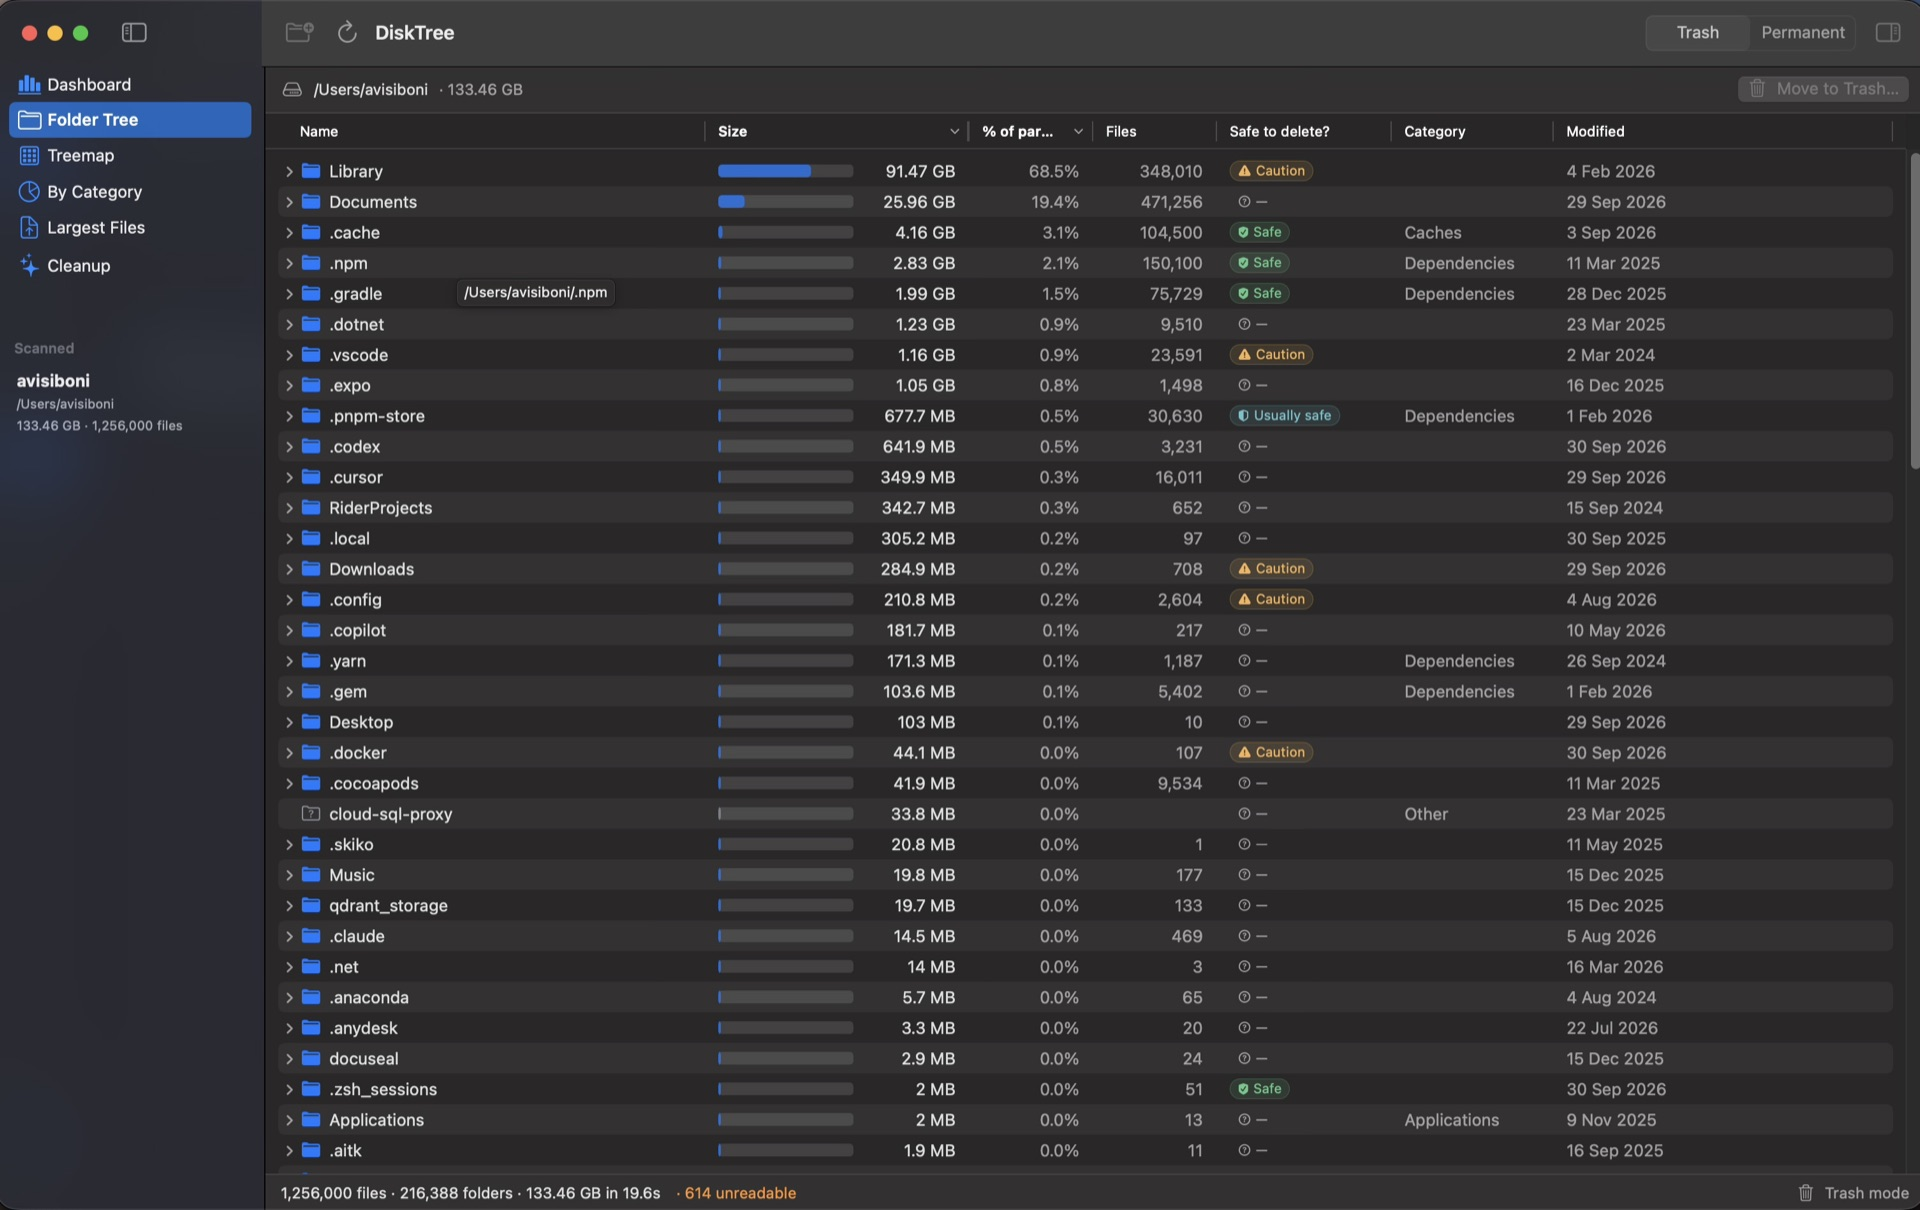
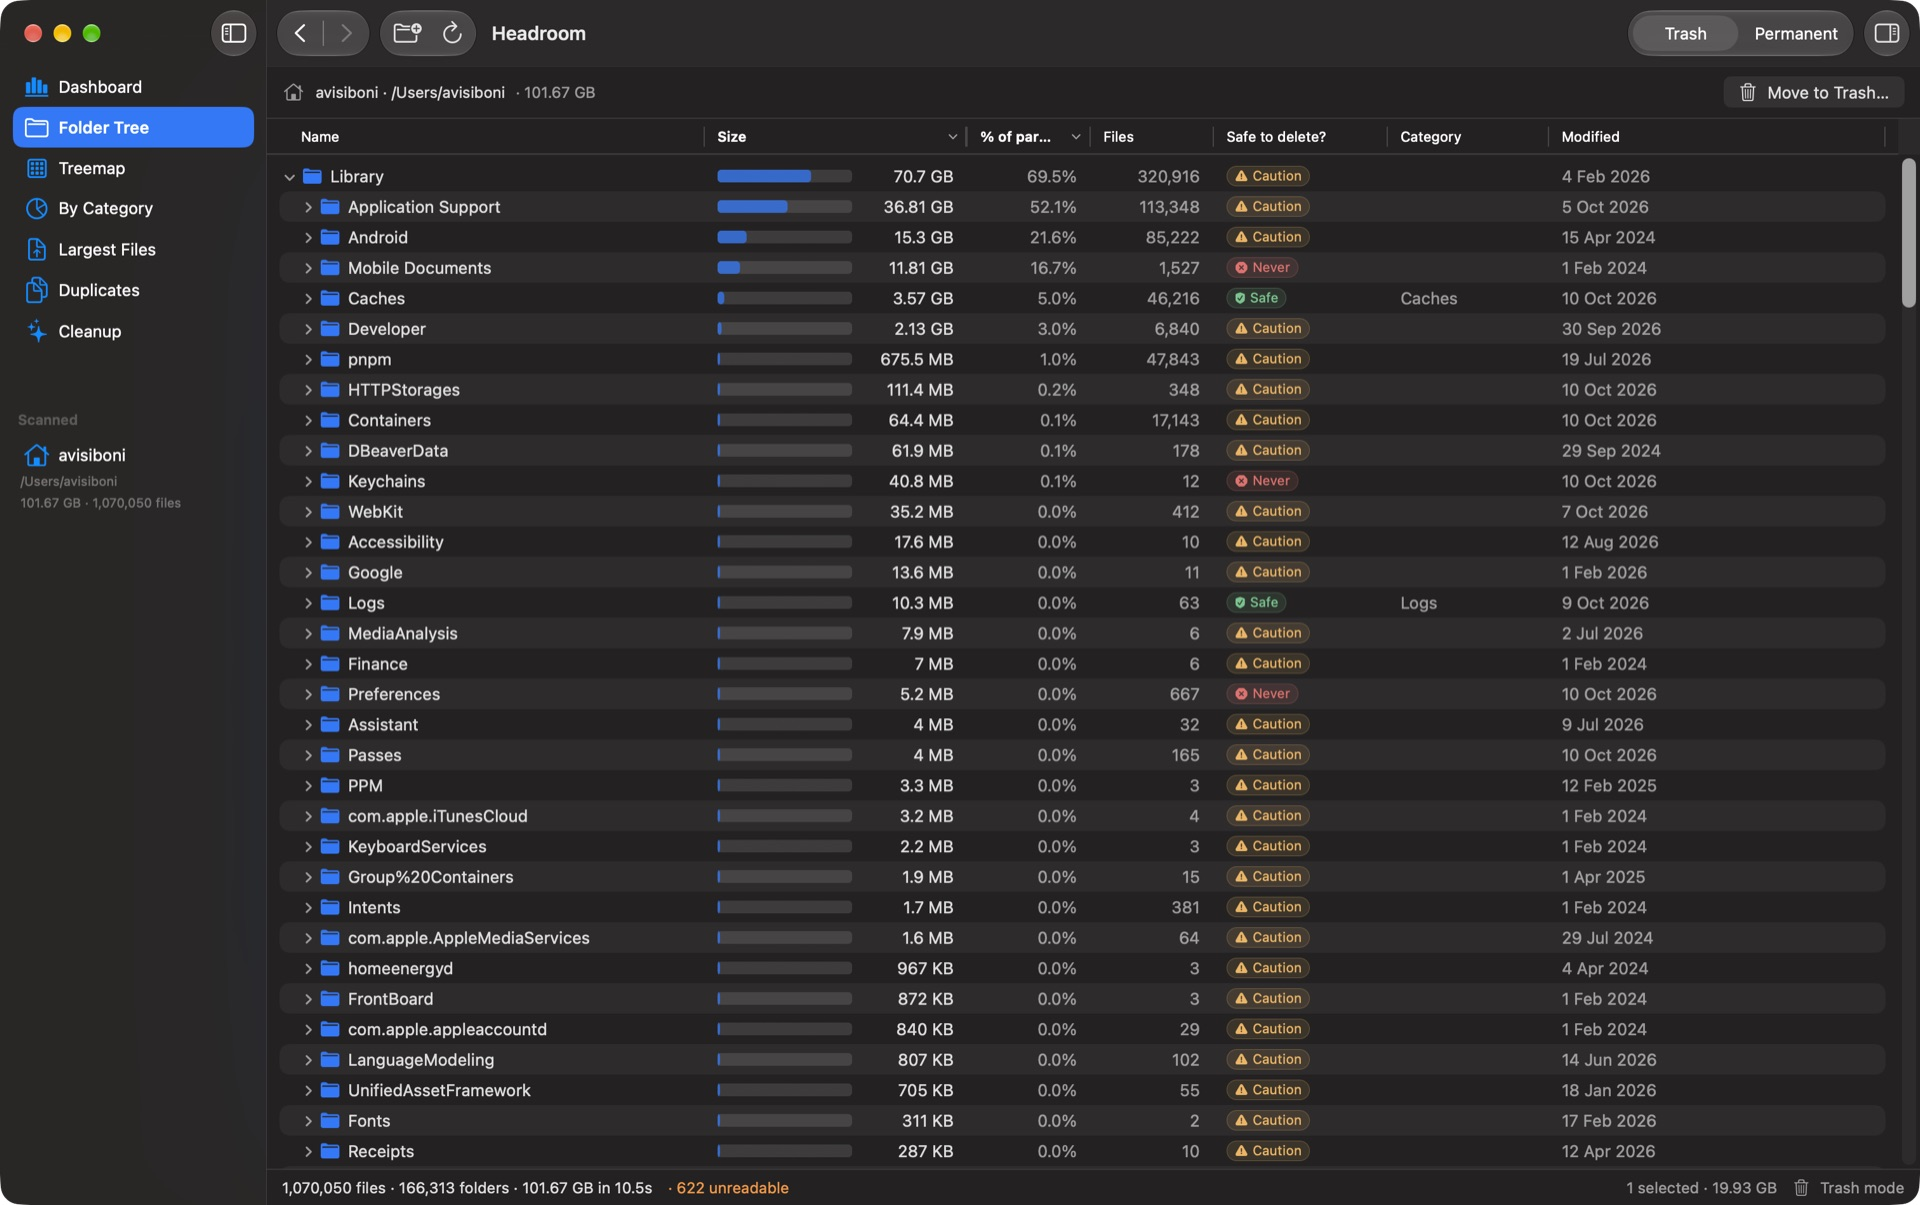
Retake screenshots on Headroom 1.0.5
The old shots still showed DiskTree in the title bar. New Dashboard,
Treemap, Folder Tree, Categories, Welcome and menu bar shots, plus the
first Duplicates and Cleanup shots. The README now leads with the
treemap and shows Cleanup and Duplicates; the site's Duplicates figure
appears now that its image exists, and the site test checks for it.

diff --git a/docs/index.html b/docs/index.html
@@ -745,7 +745,7 @@ footer{padding:24px 0;border-top:1px solid var(--line);font-size:14px;color:var(
         <div class="level reveal d3"><span class="dot never" aria-hidden="true"></span><h3>Never</h3><p>Keychains, Mail, Photos library, the system itself. Headroom will tell you so.</p></div>
       </div>
       <figure class="shot wide-shot reveal">
-        <img src="assets/folder-tree.webp" srcset="assets/folder-tree-800.webp 800w, assets/folder-tree.webp 1600w" sizes="(min-width: 1024px) 1080px, 92vw" width="1600" height="1009" loading="lazy" alt="Headroom folder tree with sizes, share of parent and a Safe to delete column">
+        <img src="assets/folder-tree.webp" srcset="assets/folder-tree-800.webp 800w, assets/folder-tree.webp 1600w" sizes="(min-width: 1024px) 1080px, 92vw" width="1600" height="1005" loading="lazy" alt="Headroom folder tree with sizes, share of parent and a Safe to delete column">
         <figcaption>Trash mode is the default and fully recoverable. Permanent mode uses a parallel delete engine for huge folders and cannot be undone.</figcaption>
       </figure>
     </div>
@@ -770,7 +770,7 @@ footer{padding:24px 0;border-top:1px solid var(--line);font-size:14px;color:var(
         <p class="fine">macOS 14 Sonoma or newer, Apple silicon and Intel. Prefer to build it yourself? <code>git clone</code> and run <code>./build.sh run</code>.</p>
       </div>
       <figure class="shot reveal d1">
-        <img src="assets/categories.webp" srcset="assets/categories-800.webp 800w, assets/categories.webp 1600w" sizes="(min-width: 1024px) 560px, 92vw" width="1600" height="1003" loading="lazy" alt="Headroom storage by category: virtual machines, applications, dependencies, caches and media">
+        <img src="assets/categories.webp" srcset="assets/categories-800.webp 800w, assets/categories.webp 1600w" sizes="(min-width: 1024px) 560px, 92vw" width="1600" height="1005" loading="lazy" alt="Headroom storage by category: virtual machines, applications, dependencies, caches and media">
       </figure>
     </div>
   </section>

diff --git a/README.md b/README.md
@@ -47,7 +47,7 @@
 brew install ryware/tap/headroom
 ```
 
-![Headroom dashboard showing disk usage, cleanup candidates, and space by category](Screenshots/dashboard.jpeg)
+![Headroom treemap of a home folder colored by file age](Screenshots/treemap.jpeg)
 
 Headroom turns a crowded drive into an understandable map. Scan a folder or disk, identify the largest files and developer caches, inspect what is safe to remove, and clean up without leaving the app.
 
@@ -72,9 +72,21 @@ The virtualized folder tree stays responsive with very large directories. Sort b
 
 ### See the whole drive at a glance
 
-![Headroom treemap colored by file age](Screenshots/treemap.jpeg)
+![Headroom dashboard showing free space, a 7-day trend, cleanup candidates, and duplicate files](Screenshots/dashboard.jpeg)
 
-The interactive treemap can be colored by category, age, or deletion safety. Double-click to zoom and right-click an item for actions.
+The dashboard sums up the scan: free space, a 7-day trend, cleanup candidates, and a shortcut to the duplicate finder. The interactive treemap (top of this page) can be colored by category, age, or deletion safety. Double-click to zoom and right-click an item for actions.
+
+### Know what is safe to delete
+
+![Headroom Cleanup view listing caches, Xcode archives, and build output with Safe, Usually safe, and Caution badges](Screenshots/cleanup.jpeg)
+
+Cleanup gathers regenerable folders, such as caches, DerivedData, `node_modules`, and build output, biggest first, and labels each one Safe, Usually safe, Caution, or Never.
+
+### Remove duplicate files
+
+![Headroom Duplicates pane with groups of identical files and a Select extra copies (keep newest) button](Screenshots/duplicates.jpeg)
+
+Byte-for-byte identical files are grouped and ranked by reclaimable space. One click selects the extra copies and keeps the newest.
 
 ### Understand what consumes the space
 
